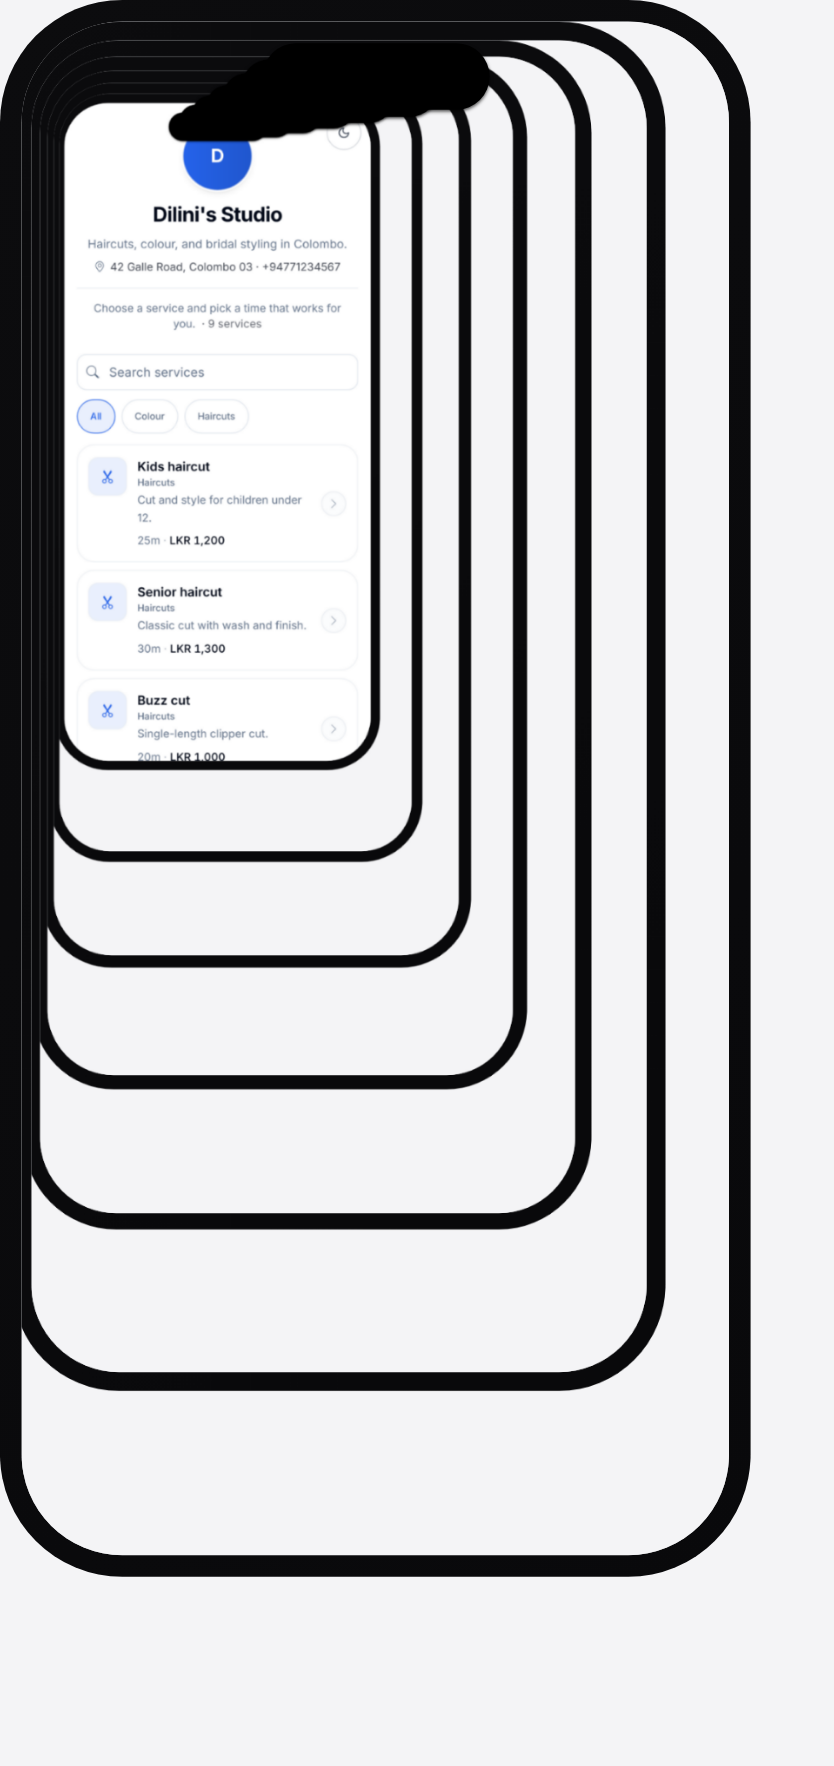
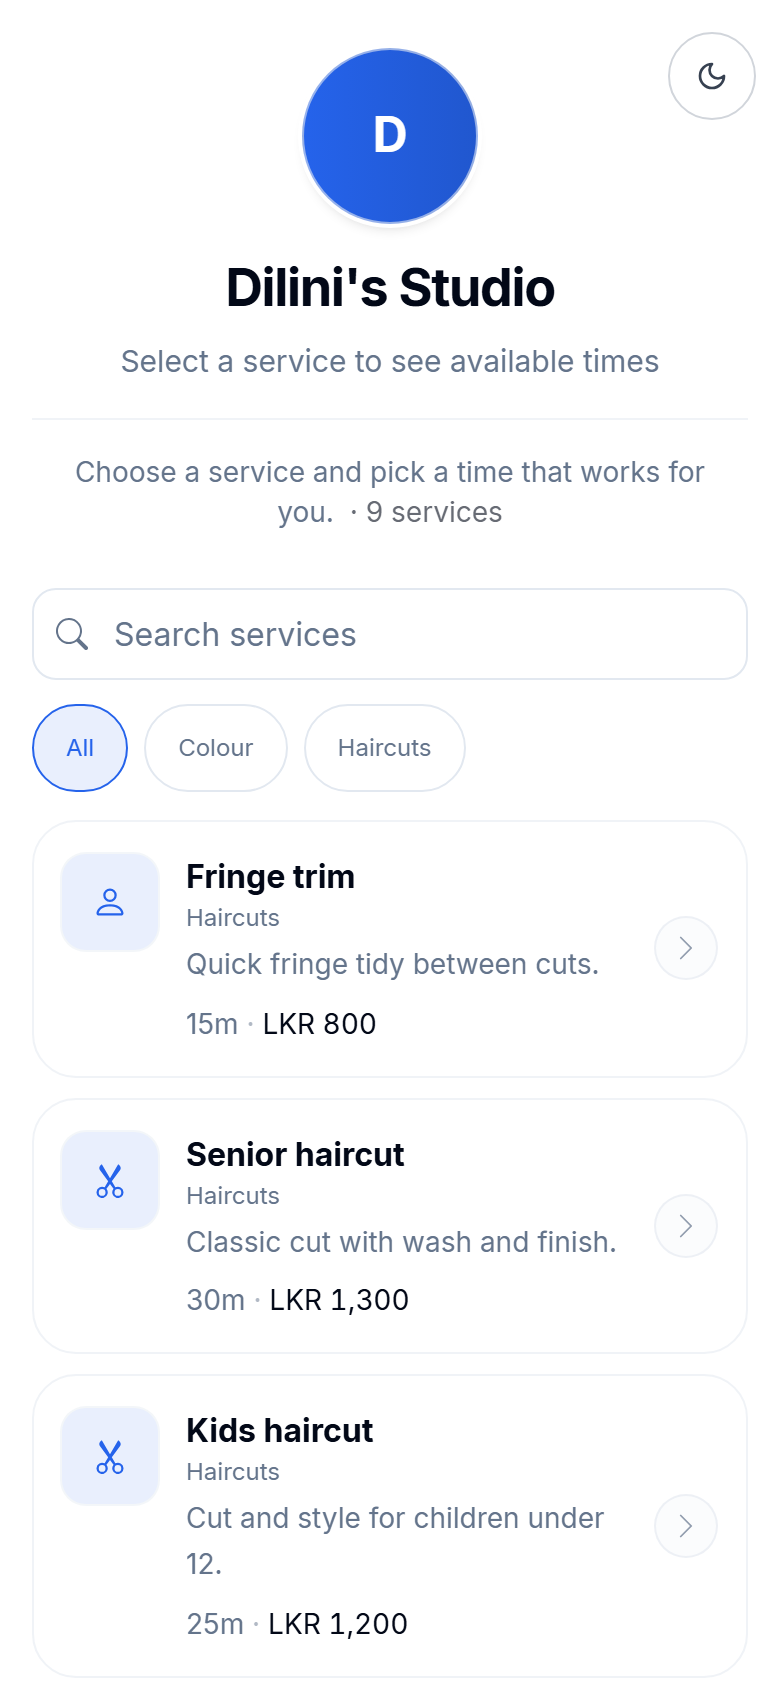
fix(docs): regenerate corrupted screenshot assets, fix Windows capture pipeline
Every image in public/docs/screenshots/ had a "stacked bezel" artifact baked
directly into the PNG — dozens of concentric phone/browser-chrome outlines
layered on top of each other, with little to no real product content visible
underneath. Confirmed via the raw files (not a CSS/rendering bug) that this
was frozen into the assets from a past capture run, before a shadow-stacking
bug in the live mockup components had been fixed (see the existing "do not
stack" comment in design-tokens.ts) — the screenshots were just never
regenerated after that fix landed.

While regenerating via scripts/capture-docs-screenshots.ts, found the actual
reason the seed/onboarding steps were silently no-op'ing on this machine:
runScript() called spawnSync("npx", ...) without shell:true. On Windows, npx
resolves to npx.cmd, which spawnSync can't exec directly without a shell —
so every seed-test-*.ts and docs-complete-onboarding.ts invocation returned
status:null and got logged as an easy-to-miss "warning" while doing nothing.
Fixed with shell: process.platform === "win32", plus a small retry wrapper
in docs-complete-onboarding.ts since it opens a fresh cold DB connection
(unlike the dev server's warm pool) and was disproportionately exposed to
transient connection blips during the same capture run.

Also fixes DocsPhoneFrame's screenBg: it read next-themes' resolvedTheme
directly, which is unavailable during SSR — server always rendered the light
[…]

diff --git a/scripts/docs-complete-onboarding.ts b/scripts/docs-complete-onboarding.ts
@@ -8,6 +8,25 @@ import { eq } from "drizzle-orm";
 import { db } from "../src/db";
 import { businesses, users } from "../src/db/schema";
 
+// This script cold-starts a brand-new DB connection (unlike the long-running
+// dev server's warm pool), which made it disproportionately likely to catch
+// a transient connection blip during capture runs. Retry before giving up.
+async function withRetry<T>(fn: () => Promise<T>, attempts = 3, delayMs = 2000): Promise<T> {
+  let lastError: unknown;
+  for (let i = 0; i < attempts; i++) {
+    try {
+      return await fn();
+    } catch (error) {
+      lastError = error;
+      if (i < attempts - 1) {
+        console.warn(`DB attempt ${i + 1}/${attempts} failed, retrying in ${delayMs}ms…`);
+        await new Promise((resolve) => setTimeout(resolve, delayMs));
+      }
+    }
+  }
+  throw lastError;
+}
+
 async function main() {
   const email = process.argv[2];
   if (!email) {
@@ -15,30 +34,34 @@ async function main() {
     process.exit(1);
   }
 
-  const [user] = await db
-    .select({ businessId: users.businessId })
-    .from(users)
-    .where(eq(users.email, email))
-    .limit(1);
+  const [user] = await withRetry(() =>
+    db
+      .select({ businessId: users.businessId })
+      .from(users)
+      .where(eq(users.email, email))
+      .limit(1),
+  );
 
   if (!user?.businessId) {
     console.error(`No business found for ${email}`);
     process.exit(1);
   }
 
-  await db
-    .update(businesses)
-    .set({
-      onboardingCompletedAt: new Date(),
-      onboardingStep: 4,
-      phone: "+94771234567",
-      address: "42 Galle Road, Colombo 03",
-      description: "Haircuts, colour, and bridal styling in Colombo.",
-      // Unlocks the clean Today overview (no setup checklist / localhost link).
-      payhereEnabled: true,
-      payhereMerchantId: "docs-demo-merchant",
-    })
-    .where(eq(businesses.id, user.businessId));
+  await withRetry(() =>
+    db
+      .update(businesses)
+      .set({
+        onboardingCompletedAt: new Date(),
+        onboardingStep: 4,
+        phone: "+94771234567",
+        address: "42 Galle Road, Colombo 03",
+        description: "Haircuts, colour, and bridal styling in Colombo.",
+        // Unlocks the clean Today overview (no setup checklist / localhost link).
+        payhereEnabled: true,
+        payhereMerchantId: "docs-demo-merchant",
+      })
+      .where(eq(businesses.id, user.businessId)),
+  );
 
   console.log(`Onboarding completed for ${email}`);
   process.exit(0);

diff --git a/src/components/docs/DocsPhoneFrame.tsx b/src/components/docs/DocsPhoneFrame.tsx
@@ -1,6 +1,7 @@
 "use client";
 
 import Image from "next/image";
+import { useEffect, useState } from "react";
 import { useTheme } from "next-themes";
 import type { DocsHotspot as DocsHotspotType, DocsMockupTarget } from "@content/docs/types";
 import IPhoneMockup from "@/components/ui/iphone-mockup";
@@ -34,7 +35,12 @@ export function DocsPhoneFrame({
   staged = false,
 }: Props) {
   const { resolvedTheme } = useTheme();
-  const screenBg = resolvedTheme === "dark" ? "#0a0a0a" : "#f6f7fb";
+  const [mounted, setMounted] = useState(false);
+  useEffect(() => setMounted(true), []);
+  // Server always renders the light default; only switch after mount so the
+  // first client render matches SSR exactly and doesn't trigger a hydration
+  // mismatch (which was leaving stale phone-frame copies un-unmounted).
+  const screenBg = mounted && resolvedTheme === "dark" ? "#0a0a0a" : "#f6f7fb";
   const rects = resolveHighlightRects({
     highlightTarget,
     shotId: shotIdFromSrc(src),

diff --git a/scripts/check-directory.ts b/scripts/check-directory.ts
@@ -1,0 +1,34 @@
+/**
+ * One-off check: what's in `businesses` and why /discover might be empty.
+ * Usage: npx tsx scripts/check-directory.ts
+ */
+import * as dotenv from "dotenv";
+import { db } from "../src/db";
+import { businesses } from "../src/db/schema";
+
+dotenv.config({ path: ".env.local" });
+dotenv.config({ path: ".env" });
+
+async function main() {
+  const rows = await db
+    .select({
+      name: businesses.name,
+      slug: businesses.slug,
+      directoryListed: businesses.directoryListed,
+      isSuspended: businesses.isSuspended,
+      deletedAt: businesses.deletedAt,
+      directoryCategory: businesses.directoryCategory,
+      directoryCity: businesses.directoryCity,
+    })
+    .from(businesses);
+
+  console.log(`Total businesses: ${rows.length}`);
+  console.log(JSON.stringify(rows, null, 2));
+}
+
+main()
+  .then(() => process.exit(0))
+  .catch((e) => {
+    console.error(e);
+    process.exit(1);
+  });

diff --git a/scripts/capture-docs-screenshots.ts b/scripts/capture-docs-screenshots.ts
@@ -83,12 +83,18 @@ async function registerDemoAccount(): Promise<{
 }
 
 function runScript(args: string[]) {
+  // `npx` resolves to npx.cmd on Windows — spawnSync can't exec it directly
+  // without shell:true, which made every seed step here silently no-op
+  // (status: null) on Windows while looking like a normal exit.
   const result = spawnSync("npx", ["tsx", ...args], {
     stdio: "inherit",
     env: process.env,
     cwd: process.cwd(),
+    shell: process.platform === "win32",
   });
-  if (result.status !== 0) {
+  if (result.error) {
+    console.warn(`Seed warning: ${args.join(" ")} failed to spawn: ${result.error.message}`);
+  } else if (result.status !== 0) {
     console.warn(`Seed warning: ${args.join(" ")} exited ${result.status}`);
   }
 }
